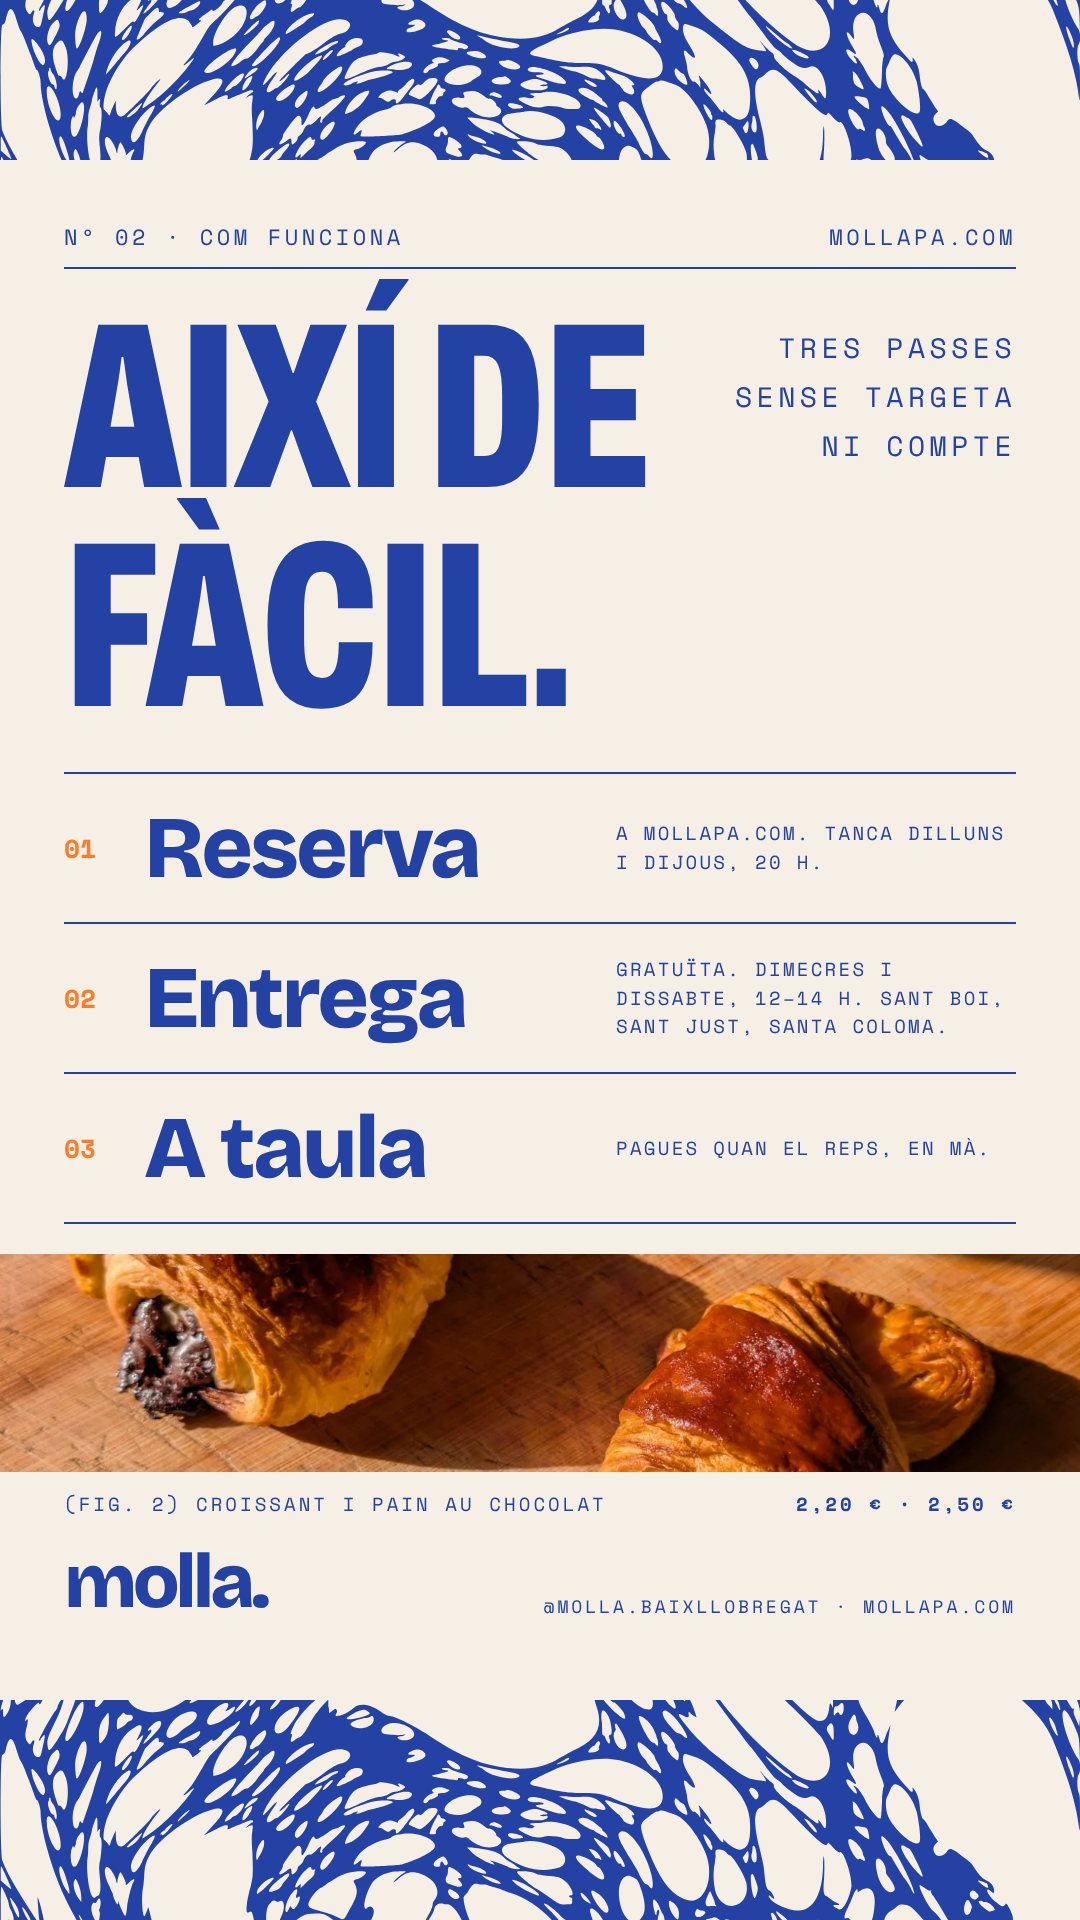
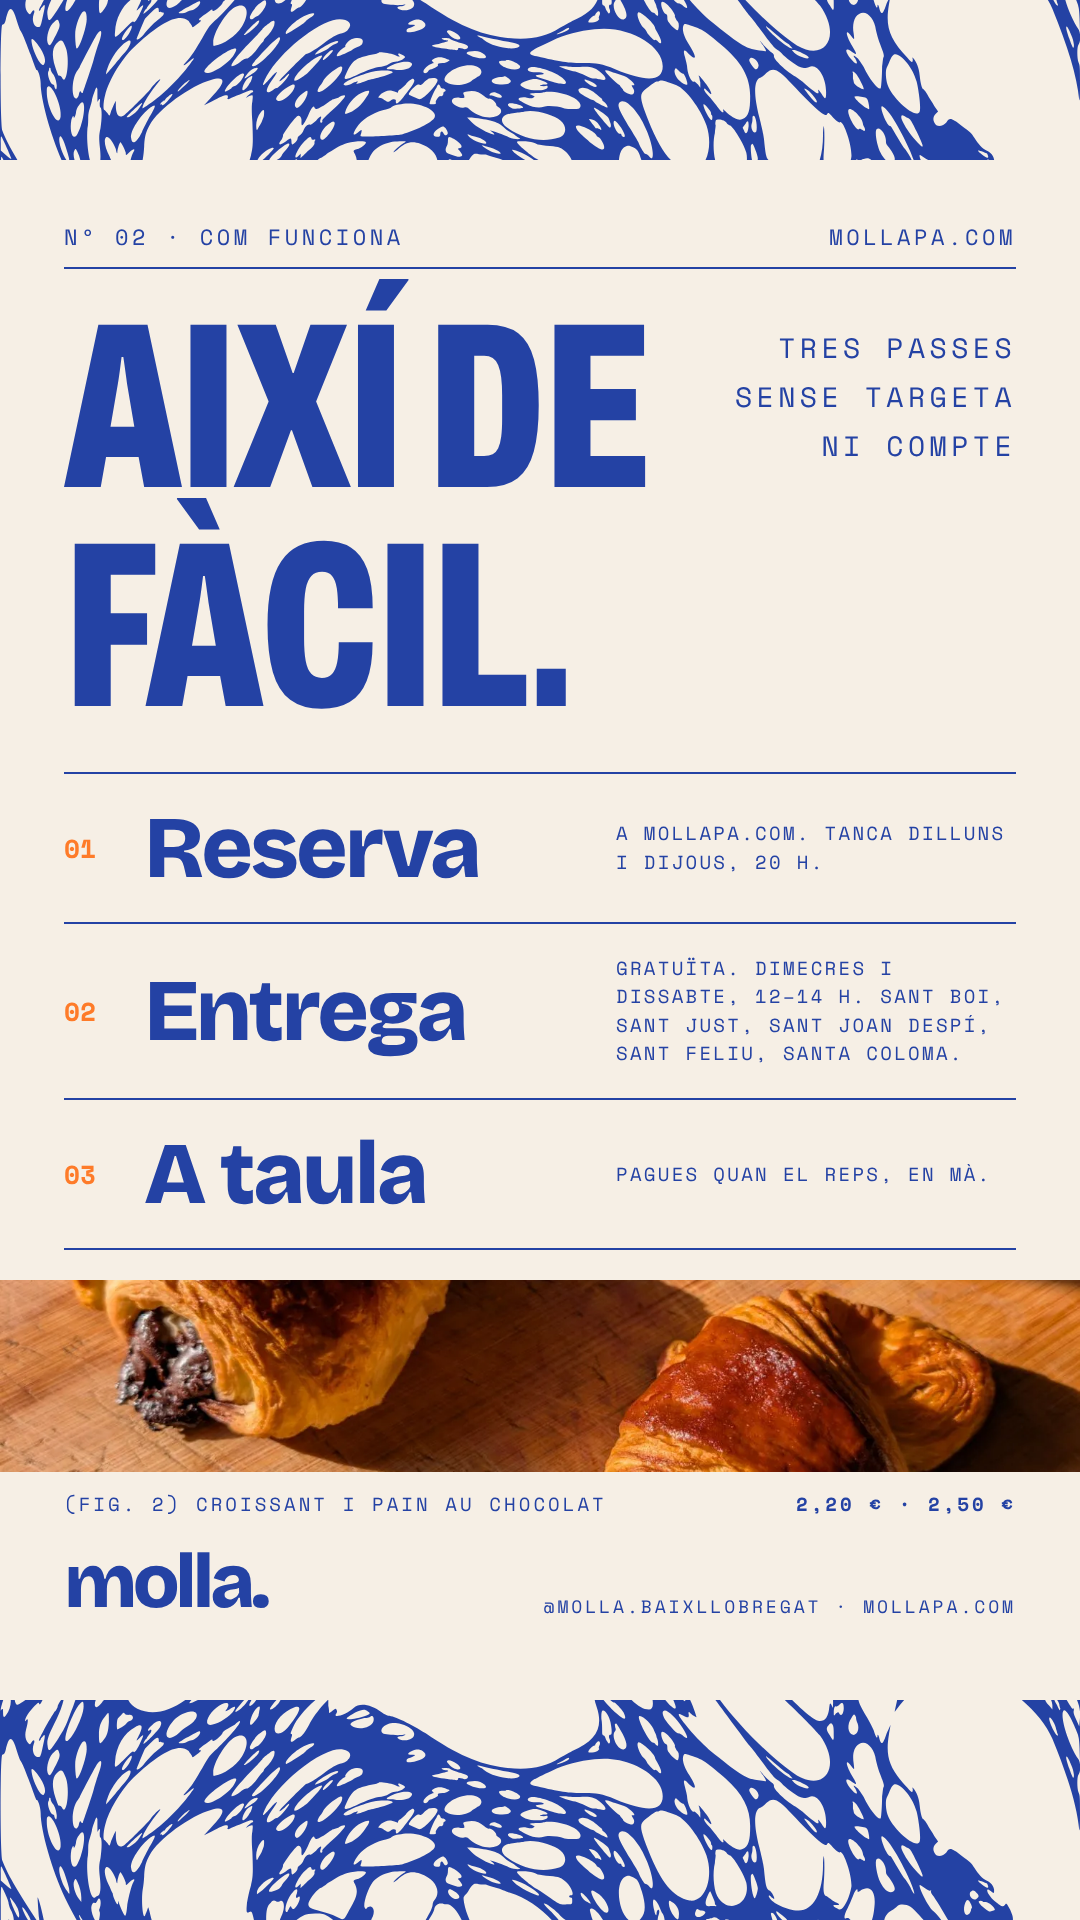
Ad kit: three creatives for the click-to-WhatsApp campaign
- porta: 'Acabat de fer, a la porta de casa.' with the 5 € price, the
  days and the five delivery towns, over two loaves.
- veins: 5/5 on Google and two verbatim Google reviews over the crumb.
- whatsapp: a sample order chat over the baker smelling a loaf, with
  'Escriu-me. Te'l porto.' and the WhatsApp number.

Catalan and Spanish, 4:5 feed and 9:16 story, real photos only. The
existing concepts now name the five delivery towns, and textos.md adds
the WhatsApp campaign setup and ad copy for the new concepts.

Claude-Session: https://claude.ai/code/session_01QaVtpyuSr4Qa6tD1xtCdvu

diff --git a/exports/anuncis/textos.md b/exports/anuncis/textos.md
@@ -1,6 +1,6 @@
 # Kit de anuncios de Molla
 
-20 imágenes en esta carpeta, con el lenguaje de los flyers: etiquetas en mono entre filetes, titular condensado, pies «(FIG. n)», precio en contorno y el patrón de miga. Solo fotos reales. `npm run ads` las regenera (por ejemplo, si cambian precios, días o zonas: los textos están en `scripts/ad-kit.mjs`).
+32 imágenes en esta carpeta, con el lenguaje de los flyers: etiquetas en mono entre filetes, titular condensado, pies «(FIG. n)», precio en contorno y el patrón de miga. Solo fotos reales. `npm run ads` las regenera (por ejemplo, si cambian precios, días o zonas: los textos están en `scripts/ad-kit.mjs`).
 
 | Concepto   | Idea                                                     | Foto                         |
 | ---------- | -------------------------------------------------------- | ---------------------------- |
@@ -9,6 +9,9 @@
 | `hores`    | «35 hores» sobre el patrón de miga con su marco de texto | Patrón de miga (vector)      |
 | `obrador`  | «Fet per algú del barri.»                                | El panadero en el obrador    |
 | `carta`    | La carta con precios                                     | Banana bread                 |
+| `porta`    | «Acabat de fer, a la porta de casa.», 5 € y los 5 municipios | Dos hogazas de corteza oscura |
+| `veins`    | «Ho diuen els veïns.», 5/5 en Google y dos reseñas reales | Hogaza abierta, la miga       |
+| `whatsapp` | «Escriu-me. Te’l porto.» con un pedido de ejemplo por chat | El panadero oliendo el pan    |
 
 Cada concepto existe en catalán (`-ca-`) y castellano (`-es-`), y en dos formatos:
 
@@ -17,10 +20,45 @@ Cada concepto existe en catalán (`-ca-`) y castellano (`-es-`), y en dos format
 
 Al crear el anuncio, sube el `-feed` y el `-story` del mismo concepto: Meta usa cada uno donde toca.
 
-## Configuración (Meta Business Suite → Anuncios → Crear)
+## Campaña nueva: clic a WhatsApp (noviembre 2026)
+
+Para los tres conceptos nuevos: `porta`, `veins` y `whatsapp`. La campaña anterior (objetivo Tráfico) trajo visitas muy baratas y ninguna venta; esta lleva directamente a un chat contigo.
+
+- **Objetivo**: Interacción → **Mensajes** → WhatsApp, con el número 649 90 79 12 (tiene que estar conectado a la página de Facebook de Molla, como cuenta de WhatsApp Business).
+- **Mensaje de bienvenida** (lo que el cliente ve ya escrito al abrir el chat):
+  - CA: «Hola! Vull pa per a aquesta setmana. Quins dies el porteu?»
+  - ES: «¡Hola! Quiero pan para esta semana. ¿Qué días lo traéis?»
+- **Público**: «personas que viven en», radio de 2–3 km alrededor de cada municipio de reparto (Sant Boi de Llobregat, Sant Just Desvern, Sant Joan Despí, Sant Feliu de Llobregat y Santa Coloma de Cervelló). Edad 28–65. Sin intereses. Sin Barcelona.
+- **Ubicaciones**: solo Instagram y Facebook (feed, stories, reels). Sin Audience Network ni Messenger.
+- **Presupuesto**: 5 € al día durante 7 días (≈35 €).
+- **Un conjunto de anuncios** con los tres conceptos; en cada anuncio, catalán como idioma principal y castellano como segundo. Sube el `-feed` y el `-story` de cada concepto.
+- **Botón**: «Enviar mensaje de WhatsApp».
+- **Al acabar la semana**: si han salido 2 o 3 pedidos de los chats, sigue y renueva un creativo cada semana. Si no ha salido ninguno, pausa.
+
+### Textos de la campaña de WhatsApp
+
+**Catalán**
+
+- **porta** · Pa artesà acabat de fer, a la porta de casa. El faig aquell mateix matí i te’l porto dimecres o dissabte de 12 a 14 h a Sant Boi, Sant Just Desvern, Sant Joan Despí, Sant Feliu i Santa Coloma. 5 € el pa, enviament gratuït i pagues en rebre’l. Escriu-me i t’ho aparto.
+  Títol: Pa acabat de fer, a casa teva
+- **veins** · 5/5 a Google. «Crujiente por fuera y una buena molla por dentro», diu el David a la seva ressenya. Fermentació lenta, farina ecològica i fet a mà a Sant Boi. Te’l porto a casa dimecres o dissabte. Escriu-me per WhatsApp i reserva el teu.
+  Títol: Ho diuen els veïns
+- **whatsapp** · Sense webs ni formularis: escriu-me què vols i quin dia, i te’l porto a casa. Pa, croissants i pains au chocolat, dimecres o dissabte de 12 a 14 h. Pagues en rebre’l.
+  Títol: Escriu-me. Te’l porto.
+
+**Castellano**
+
+- **porta** · Pan artesano recién hecho, en tu puerta. Lo horneo esa misma mañana y te lo llevo el miércoles o el sábado de 12 a 14 h a Sant Boi, Sant Just Desvern, Sant Joan Despí, Sant Feliu y Santa Coloma. 5 € la hogaza, envío gratis y pagas al recibirlo. Escríbeme y te la guardo.
+  Título: Pan recién hecho, en tu casa
+- **veins** · 5/5 en Google. «Crujiente por fuera y una buena molla por dentro», dice David. Fermentación lenta, harina ecológica y hecho a mano en Sant Boi. Te lo llevo a casa el miércoles o el sábado. Escríbeme por WhatsApp y reserva el tuyo.
+  Título: Lo dicen los vecinos
+- **whatsapp** · Sin webs ni formularios: escríbeme qué quieres y qué día, y te lo llevo a casa. Pan, croissants y pains au chocolat, el miércoles o el sábado de 12 a 14 h. Pagas al recibirlo.
+  Título: Escríbeme. Te lo llevo.
+
+## Configuración de la campaña anterior (Tráfico, octubre 2026)
 
 - **Objetivo**: Tráfico. Destino: sitio web.
-- **Público**: ubicación «personas que viven en», radio de 3 km alrededor de Sant Boi de Llobregat, Sant Just Desvern y Santa Coloma de Cervelló. Edad 28–65. Sin intereses.
+- **Público**: ubicación «personas que viven en», radio de 3 km alrededor de Sant Boi de Llobregat, Sant Just Desvern, Sant Joan Despí, Sant Feliu de Llobregat y Santa Coloma de Cervelló. Edad 28–65. Sin intereses.
 - **Ubicaciones**: manuales. Solo Instagram (feed, stories, reels, explorar) y Facebook (feed, stories, reels). Quita Audience Network y Messenger: dan clics accidentales que no acaban en pedidos.
 - **Presupuesto**: **2,50 € al día** (unos 17 € a la semana, 75 € al mes), sin fecha de fin.
 - **Un solo conjunto de anuncios** para los dos idiomas: con poco presupuesto, dividirlo deja cada parte sin datos para aprender. En cada anuncio, «Añadir idiomas» → catalán como principal y castellano como segundo, con su texto y su enlace: Meta enseña a cada persona su versión.
@@ -36,7 +74,7 @@ Al crear el anuncio, sube el `-feed` y el `-story` del mismo concepto: Meta usa 
 
 ### Catalán
 
-**encarrec** · Pa de poolish fet a mà, amb farina ecològica i fins a 35 hores de fermentació. Te’l porto a casa dimecres i dissabte de 12 a 14 h a Sant Boi, Sant Just Desvern i Santa Coloma de Cervelló. 5 € la fogassa, sense cost d’enviament, i pagues en rebre’l.
+**encarrec** · Pa de poolish fet a mà, amb farina ecològica i fins a 35 hores de fermentació. Te’l porto a casa dimecres i dissabte de 12 a 14 h a Sant Boi, Sant Just Desvern, Sant Joan Despí, Sant Feliu de Llobregat i Santa Coloma de Cervelló. 5 € la fogassa, sense cost d’enviament, i pagues en rebre’l.
 Títol: Pa per encàrrec, a la teva porta · Descripció: Tanca dilluns i dijous a les 20 h
 
 **facil** · Reserves al web en un minut, sense targeta ni compte. Te’l porto a casa dimecres o dissabte i pagues quan el reps.
@@ -45,7 +83,7 @@ Títol: Així de fàcil · Descripció: Entrega gratuïta
 **hores** · Només fornejo el que es reserva: per això cada fogassa té el temps que necessita. Crosta que cruix, molla oberta i un gust que dura dies.
 Títol: 35 hores de fermentació. Es nota. · Descripció: Pagues en rebre’l
 
-**obrador** · Soc un obrador petit de Sant Boi. Pasto, formo i fornejo cada fogassa a mà, i te la porto a casa dimecres i dissabte a Sant Boi, Sant Just i Santa Coloma.
+**obrador** · Soc un obrador petit de Sant Boi. Pasto, formo i fornejo cada fogassa a mà, i te la porto a casa dimecres i dissabte a Sant Boi, Sant Just, Sant Joan Despí, Sant Feliu i Santa Coloma.
 Títol: Fet per algú del barri · Descripció: Pa, banana bread i brioixeria
 
 **carta** · Pa de poolish 5 €, croissant 2,20 €, pain au chocolat 2,50 € i banana bread de xocolata. Ho reserves al web i t’ho porto a casa, sense cost d’enviament.
@@ -53,7 +91,7 @@ Títol: La carta de Molla · Descripció: Entrega dimecres i dissabte
 
 ### Castellano
 
-**encarrec** · Pan de poolish hecho a mano, con harina ecológica y hasta 35 horas de fermentación. Te lo llevo a casa el miércoles y el sábado de 12 a 14 h en Sant Boi, Sant Just Desvern y Santa Coloma de Cervelló. 5 € la hogaza, sin coste de envío, y pagas al recibirlo.
+**encarrec** · Pan de poolish hecho a mano, con harina ecológica y hasta 35 horas de fermentación. Te lo llevo a casa el miércoles y el sábado de 12 a 14 h en Sant Boi, Sant Just Desvern, Sant Joan Despí, Sant Feliu de Llobregat y Santa Coloma de Cervelló. 5 € la hogaza, sin coste de envío, y pagas al recibirlo.
 Título: Pan por encargo, en tu puerta · Descripción: Cierra lunes y jueves a las 20 h
 
 **facil** · Reservas en la web en un minuto, sin tarjeta ni cuenta. Te lo llevo a casa el miércoles o el sábado y pagas al recibirlo.
@@ -62,7 +100,7 @@ Título: Así de fácil · Descripción: Entrega gratis
 **hores** · Solo horneo lo que se reserva: por eso cada hogaza tiene el tiempo que necesita. Corteza que cruje, miga abierta y un sabor que dura días.
 Título: 35 horas de fermentación. Se nota. · Descripción: Pagas al recibirlo
 
-**obrador** · Soy un obrador pequeño de Sant Boi. Amaso, formo y horneo cada hogaza a mano, y te la llevo a casa el miércoles y el sábado en Sant Boi, Sant Just y Santa Coloma.
+**obrador** · Soy un obrador pequeño de Sant Boi. Amaso, formo y horneo cada hogaza a mano, y te la llevo a casa el miércoles y el sábado en Sant Boi, Sant Just, Sant Joan Despí, Sant Feliu y Santa Coloma.
 Título: Hecho por alguien del barrio · Descripción: Pan, banana bread y bollería
 
 **carta** · Pan de poolish 5 €, croissant 2,20 €, pain au chocolat 2,50 € y banana bread de chocolate. Lo reservas en la web y te lo llevo a casa, sin coste de envío.
